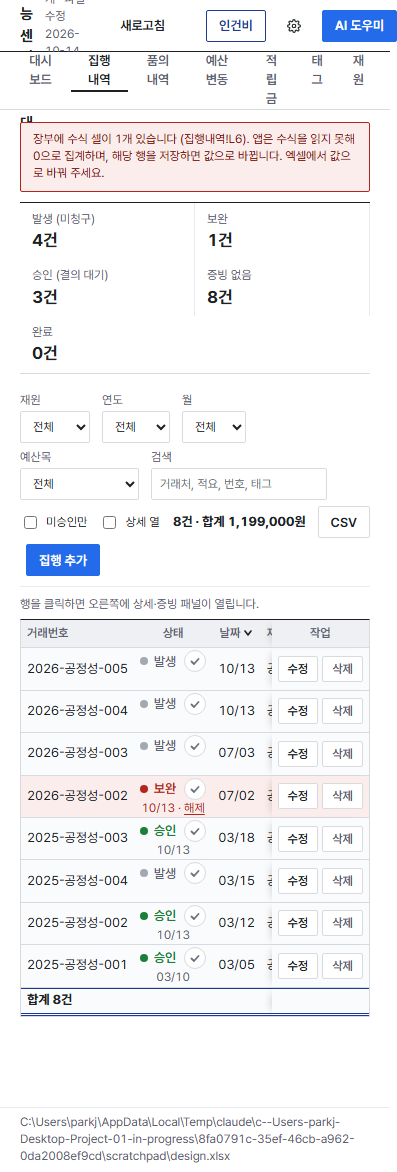
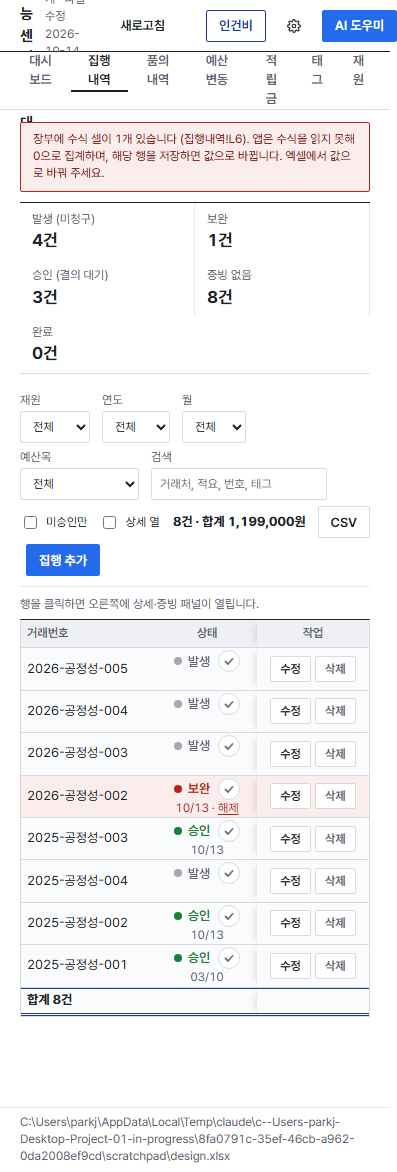
집행내역 열 폭 고정(table-layout fixed): 필터·상태 변경 시 열 폭 불변

Changed region(s): [[0.3627, 0.5222, 0.6348, 0.8601], [0.665, 0.5222, 0.9068, 0.8294]]

diff --git a/app/static/style.css b/app/static/style.css
@@ -439,3 +439,22 @@ table.grid td.st-cell .s { text-align: center; }
 table.grid td.st-cell .next.ph { visibility: hidden; border-color: transparent; }
 table.grid td.st-cell .badge { min-width: 34px; justify-content: flex-start; }
 table.grid td.tit .t .origin { margin-left: 6px; vertical-align: 0; }
+
+/* 집행내역 열 폭 고정: 필터·상태 변경으로 행이 바뀌어도 열 폭 유지 (적요만 남는 폭을 차지) */
+#exec-table { table-layout: fixed; }
+#exec-table th[data-col="거래번호"] { width: 130px; }
+#exec-table th[data-col="상태"] { width: 112px; }
+#exec-table th[data-col="원인발생일"] { width: 64px; }
+#exec-table th[data-col="재원"] { width: 84px; }
+#exec-table th[data-col="예산목"] { width: 112px; }
+#exec-table th[data-col="세목"] { width: 84px; }
+#exec-table th[data-col="세세목"], #exec-table th[data-col="관리번호"], #exec-table th[data-col="사용자"] { width: 90px; }
+#exec-table th[data-col="결제수단"] { width: 84px; }
+#exec-table th[data-col="금액"] { width: 104px; }
+#exec-table th[data-col="예산목 잔액"] { width: 104px; }
+#exec-table th[data-col="태그"] { width: 72px; }
+#exec-table th[data-col="증빙"] { width: 44px; }
+#exec-table th[data-col="비고"] { width: 140px; }
+#exec-table th.actions { width: 112px; }
+#exec-table td { overflow: hidden; text-overflow: ellipsis; }
+#exec-table td.tit { max-width: none; min-width: 0; }
